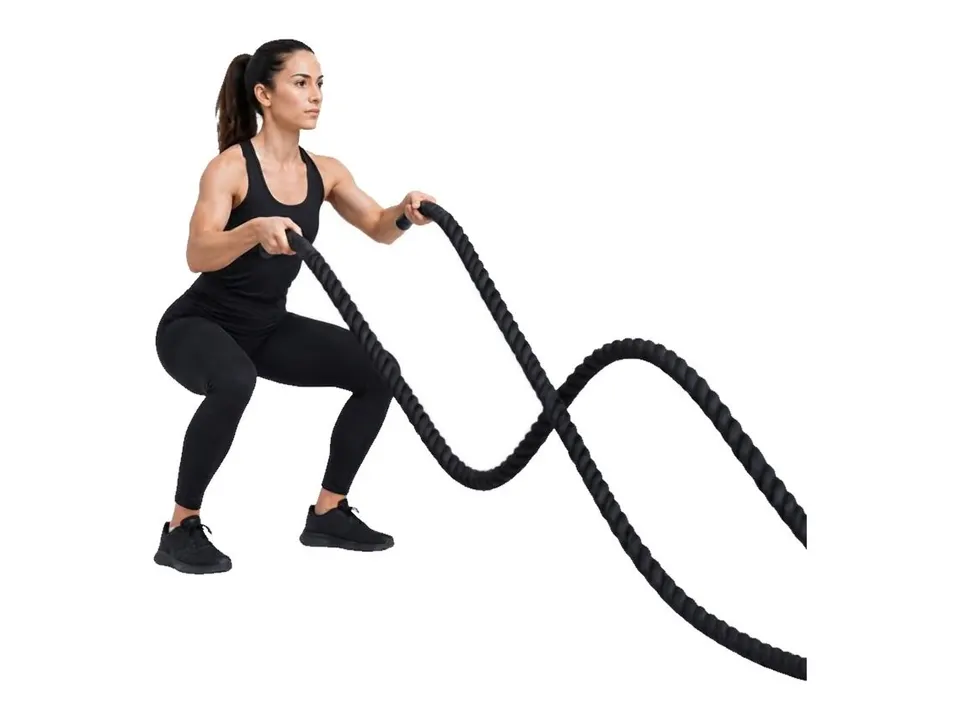
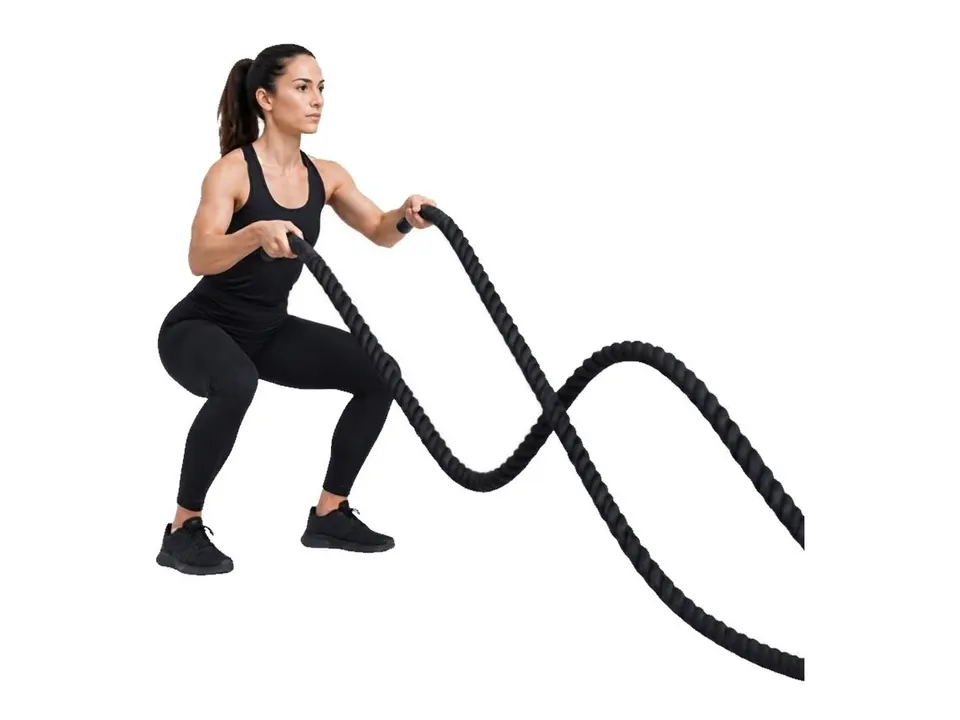
Twelve more move photos animate: new AI frames for the moves that stayed still
New second frames (Gemini via OpenRouter, an edit of the move's own frame, then whitened) for arm circles, assault
bike, battle rope, hip circles, burpee, slam hop-over, standing dumbbell press, stationary bike, swiss-ball leg curl,
thruster, wall ball and cobra. Each pair was checked side by side, overlaid and as an |A-B|x4 difference against the
exercise's instructions; only the moving limbs, rope or ball light up.

- Burpee is now plank to crouch with the hands planted (the feet jump in and back), slam hop-over is overhead to
  slam with the feet planted, and the press starts with straight legs (strict, not a push press).
- Thruster and wall ball: frame 1 was shrunk to 0.75 on a padded canvas so the standing pose fits at the same
  scale. Wall-ball ball and head now match; the thruster's plates are still about 12% smaller overhead (was a third).
- Slam hop-over frame 2 came back 1.3x too big and the press frame 2 was 7% off: both scaled down and lined up on
  the feet, so nothing is upscaled.
- Hip circles and the battle-rope wave got two new poses; cobra (lowered to the floor and back up) is the only
  Sunday stretch that moves, as its instructions describe the movement. The other holds stay still.
- Dumbbell fly stays still: three side-on redraws came back as a pullover or a dead hang.

57 moves loop; arm circles, assault bike, battle rope and stationary bike swap at the fast beat.

diff --git a/src/data/exerciseMedia.ts b/src/data/exerciseMedia.ts
@@ -218,19 +218,21 @@ export const EXERCISE_PHOTOS: string[] = [
 
 /** Photo moves that loop: the photo, then photo/<id>-b.webp. Built by scripts/moves/build.mjs, checked by eye 2026-10-15. */
 export const EXERCISE_PHOTO_LOOPS: string[] = [
-  'arabesque', 'arnold_press', 'ball_back_extension', 'ball_slam', 'band_monster_walk', 'bb_back_squat', 'bb_bench_press',
-  'bb_hang_pull', 'bb_row', 'bb_sumo_deadlift', 'bike_climb', 'cat_cow', 'db_overhead_triceps', 'db_pullover_bridge',
-  'double_under', 'glute_bridge', 'hip_thrust', 'incline_walk', 'jump_rope', 'kb_bottoms_up_press', 'kb_halo', 'kb_rdl',
-  'kb_suitcase_squat', 'kb_swing', 'kneeling_hip_thrust', 'landmine_lunge_press', 'lateral_lunge', 'leg_press', 'leg_swings',
-  'march_in_place', 'mountain_climber', 'one_arm_db_row', 'pallof_press_overhead', 'plank_shoulder_tap', 'rowing_machine',
-  'scapular_roll', 'shadow_boxing', 'ski_erg', 'sl_bridge_bench', 'sled_push', 'step_jack', 'straight_arm_pulldown',
-  'thread_the_needle', 'track_run', 'treadmill_push',
+  'arabesque', 'arm_circles', 'arnold_press', 'assault_bike', 'ball_back_extension', 'ball_slam', 'band_monster_walk',
+  'battle_rope', 'bb_back_squat', 'bb_bench_press', 'bb_hang_pull', 'bb_row', 'bb_sumo_deadlift', 'bike_climb', 'burpee',
+  'cat_cow', 'cobra_pose', 'db_overhead_triceps', 'db_pullover_bridge', 'db_standing_press', 'double_under', 'glute_bridge',
+  'hip_circles', 'hip_thrust', 'incline_walk', 'jump_rope', 'kb_bottoms_up_press', 'kb_halo', 'kb_rdl', 'kb_suitcase_squat',
+  'kb_swing', 'kneeling_hip_thrust', 'landmine_lunge_press', 'lateral_lunge', 'leg_press', 'leg_swings', 'march_in_place',
+  'mountain_climber', 'one_arm_db_row', 'pallof_press_overhead', 'plank_shoulder_tap', 'rowing_machine', 'scapular_roll',
+  'shadow_boxing', 'ski_erg', 'sl_bridge_bench', 'slam_hop_over', 'sled_push', 'stationary_bike', 'step_jack',
+  'straight_arm_pulldown', 'swiss_ball_leg_curl', 'thread_the_needle', 'thruster', 'track_run', 'treadmill_push',
+  'wall_ball',
 ]
 
 /** Quick, repeating loops (steps, strides, rope turns, punches) swap faster than a lift's steady rep. */
 export const EXERCISE_PHOTO_FAST: string[] = [
-  'bike_climb', 'double_under', 'incline_walk', 'jump_rope', 'march_in_place', 'mountain_climber', 'shadow_boxing',
-  'sled_push', 'step_jack', 'track_run', 'treadmill_push',
+  'arm_circles', 'assault_bike', 'battle_rope', 'bike_climb', 'double_under', 'incline_walk', 'jump_rope', 'march_in_place',
+  'mountain_climber', 'shadow_boxing', 'sled_push', 'stationary_bike', 'step_jack', 'track_run', 'treadmill_push',
 ]
 
 /** How long each photo of a loop shows, in ms. */

diff --git a/src/data/__tests__/exerciseMedia.test.ts b/src/data/__tests__/exerciseMedia.test.ts
@@ -143,7 +143,7 @@ describe('exerciseMedia', () => {
     expect(exerciseMedia('march_in_place').photoBeat).toBe(PHOTO_FAST_BEAT_MS)
     expect(exerciseMedia('kb_swing').photoBeat).toBe(PHOTO_BEAT_MS)
     // A move whose frames do not swap cleanly, and a hold, stay one picture.
-    for (const id of ['thruster', 'childs_pose']) {
+    for (const id of ['db_fly', 'childs_pose']) {
       expect(exerciseMedia(id).photoFrames, id).toEqual([`/moves/photo/${id}.webp`])
       expect(exerciseMedia(id).photoBeat, id).toBe(0)
     }

diff --git a/README.md b/README.md
@@ -139,7 +139,7 @@ Design rules live in `docs/DESIGN.md` (section 10 is the current direction).
 - **Nothing is bundled.** Photos load on demand from `https://raw.githubusercontent.com/yuhonas/free-exercise-db/main/exercises/<ID>/0.jpg` and `/1.jpg` (start and end position), lazily, only when an exercise is on screen. The service worker caches them (`exercise-media`, cache-first, 90 days, up to 400 files — see `runtimeCaching` in `vite.config.ts`), so a workout you have opened once keeps its photos offline. The request tells GitHub only which exercise image was fetched; no personal data is sent.
 - **Mapping.** `src/data/exerciseMedia.ts` maps our exercise ids to dataset folder ids (`EXERCISE_PHOTO_IDS`). Every entry was checked against the dataset index and both image URLs (HTTP 200) before it was added; 74 of the 84 library exercises are mapped. A few photos use different equipment from our variant (barbell hip thrust, kettlebell goblet squat) and may show a fuller range than our knee-friendly versions: the photo illustrates the movement, the written instructions set the range.
 - **Exercise illustrations** come from [Workout Guide](https://github.com/bryllim/workout-guide) by [Bryl Lim](https://bryllim.com), built on pose artwork from [Everkinetic](https://github.com/everkinetic/data). The artwork is licensed [CC BY-SA 4.0](https://creativecommons.org/licenses/by-sa/4.0/) (the repository's code is MIT); the exercise screen credits it on a line under the picture. They fill the 22 exercises that have neither an animation nor a photo (`EXERCISE_ART_FRAMES` in `src/data/exerciseMedia.ts`), and they replace the animation and photo for the moves of the Blueprint week, so a whole session reads in one style (`EXERCISE_ART_LOOPS`, which flips through two to four frames of the movement on cards and in Focus Mode). Each entry names one of the exercise's three frames, picked by eye to match our variant: the tucked hollow hold and tuck L-sit use the tucked frame, not the full version. The swims, band moves drawn with other equipment and the range-limited moves are left out. **Change:** the white line art is shown inverted to near-black ink on the white media tile. The SVGs load on demand from `raw.githubusercontent.com/bryllim/workout-guide/<pinned commit>/…`, are cached by the service worker (`exercise-art`, cache-first, 90 days, up to 100 files) and are never copied into this repo.
-- **Exercise photos** (the BFT week) are AI-generated: one woman in one plain studio. First drafts came from Canva's image generator; the frames were then redrawn at 1200 px with Gemini image models through OpenRouter (`google/gemini-3.1-flash-lite-image`), from the drafts, reference frames and text prompts, two frames per move (start and end; one for the Sunday stretches), and their backgrounds whitened. Each frame was checked by eye. `scripts/moves/build.mjs` takes each move's clearest frame and writes one 4:3 picture (`public/moves/photo/<id>.webp`, about 12 KB) and a square crop on the person for thumbnails (`public/moves/thumb/<id>.webp`); both are precached so they work offline. `EXERCISE_PHOTOS` in `src/data/exerciseMedia.ts` lists them, and they replace every other picture of those moves. 43 moves loop: `public/moves/photo/<id>-b.webp` is the other end of the movement in the same crop, swapped in with a hard cut (never a fade) on cards and in Focus Mode, faster for steps and strides (`EXERCISE_PHOTO_LOOPS`, `EXERCISE_PHOTO_FAST`); thumbnails and reduced motion stay still. Every pair was checked by eye against the exercise, and `STILL` in the build script says why the other two-frame moves stay one picture. No BFT photo, video or logo was used. The exercise screen says "Photo: AI-generated".
+- **Exercise photos** (the BFT week) are AI-generated: one woman in one plain studio. First drafts came from Canva's image generator; the frames were then redrawn at 1200 px with Gemini image models through OpenRouter (`google/gemini-3.1-flash-lite-image`), from the drafts, reference frames and text prompts, two frames per move (start and end; one for the Sunday stretches except cobra), and their backgrounds whitened. Each frame was checked by eye. `scripts/moves/build.mjs` takes each move's clearest frame and writes one 4:3 picture (`public/moves/photo/<id>.webp`, about 12 KB) and a square crop on the person for thumbnails (`public/moves/thumb/<id>.webp`); both are precached so they work offline. `EXERCISE_PHOTOS` in `src/data/exerciseMedia.ts` lists them, and they replace every other picture of those moves. 57 moves loop: `public/moves/photo/<id>-b.webp` is the other end of the movement in the same crop, swapped in with a hard cut (never a fade) on cards and in Focus Mode, faster for steps and strides (`EXERCISE_PHOTO_LOOPS`, `EXERCISE_PHOTO_FAST`); thumbnails and reduced motion stay still. Every pair was checked by eye against the exercise, and `STILL` in the build script says why the other two-frame moves stay one picture. No BFT photo, video or logo was used. The exercise screen says "Photo: AI-generated".
 - **Fallback.** Exercises with no animation, photo or illustration (single-leg press, suitcase carry and the three swims, among others), and any picture that fails to load (offline on first view, GitHub unreachable), show a tinted tile with the app's own `MuscleMap` illustration instead: an inline-SVG front/back figure with primary muscles in the pillar hue and secondary muscles at 40%. No layout shift, no broken-image icon.
 - **Illustrations and icons.** The muscle map and the empty-state line illustrations are original inline SVG drawn for this app. Icons are [lucide](https://lucide.dev) (ISC licence).
 
